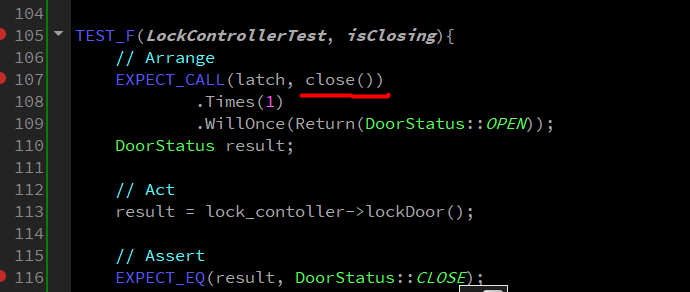
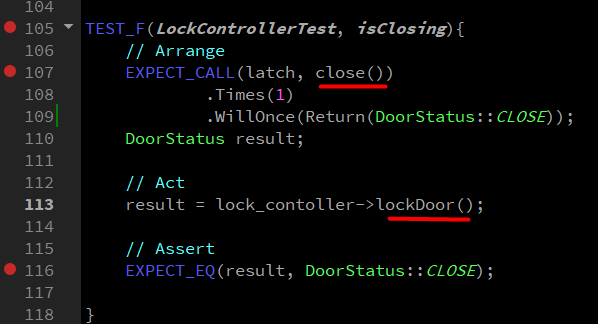
Исправлен отчёт

Changed region(s): [[0.0, 0.0, 0.9632, 1.0]]

diff --git a/Lab9/tst_testdivisionbyzero.h b/Lab9/tst_testdivisionbyzero.h
@@ -106,7 +106,7 @@ TEST_F(LockControllerTest, isClosing){
     // Arrange
     EXPECT_CALL(latch, close())
             .Times(1)
-            .WillOnce(Return(DoorStatus::OPEN));
+            .WillOnce(Return(DoorStatus::CLOSE));
     DoorStatus result;
 
     // Act

diff --git a/Lab9/Report.md b/Lab9/Report.md
@@ -37,7 +37,7 @@
 
 Рис. 2. Результат теста
 
-Пишем тесты и запускаем:
+Пишем [тесты](https://github.com/PraiseTheSun-0/Practice/tree/master/Lab9) и запускаем:
 
 ![](https://github.com/PraiseTheSun-0/Practice/blob/master/Lab9/Screenshots/Screenshot_3.png?raw=true)
 
@@ -55,6 +55,10 @@
 
 Рис. 5. Реализация метода
 
-Нужно в реализации метода open() заменить на close() и тест будет успешно пройден.
+Нужно в реализации метода open() заменить на close() и тест будет успешно пройден:
+
+![](https://github.com/PraiseTheSun-0/Practice/blob/master/Lab9/Screenshots/Screenshot_6.png?raw=true)
+
+Рис. 6. После исправления
 
 #### Вывод: я познакомился с Google Test и Google Mock Framework, изучил базовые понятия относящийся к тестированию кода, научился тестировать классы в среде разработки Qt Creator.
